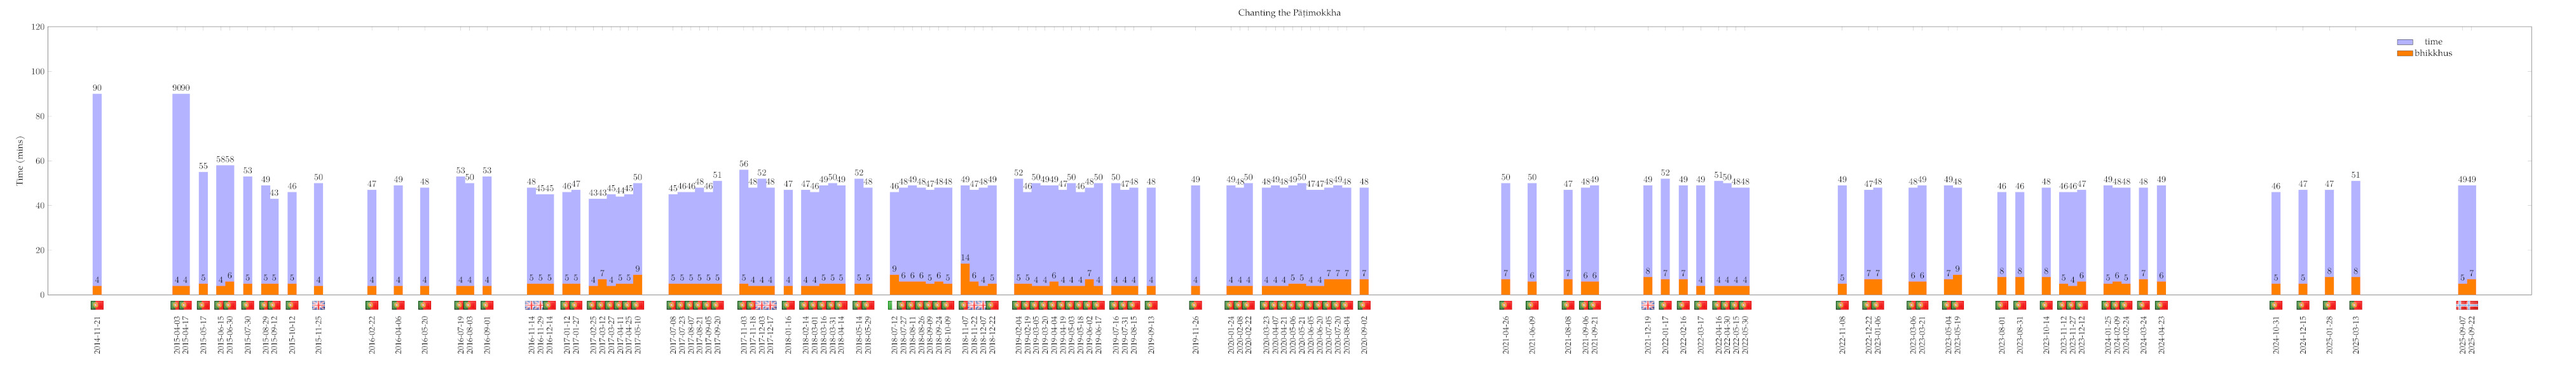
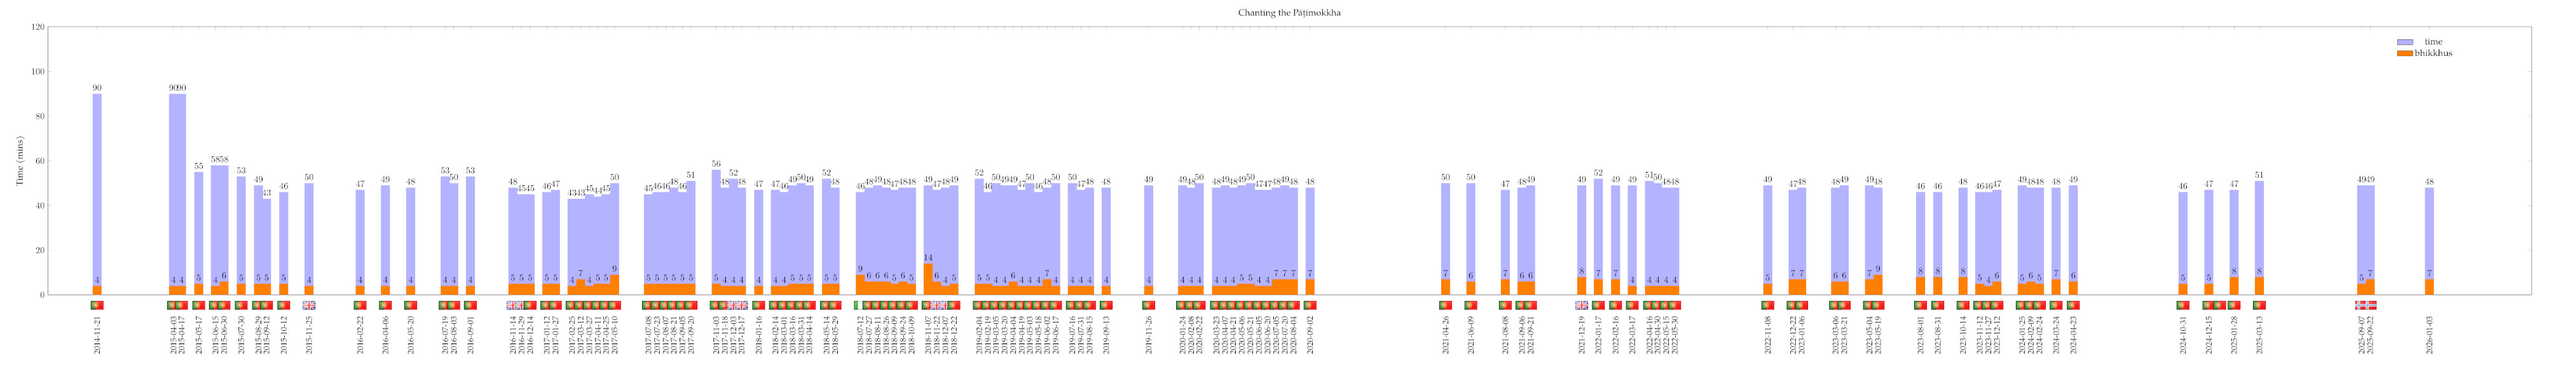
upd

Changed region(s): [[0.0622, 0.39, 0.964, 0.93]]

diff --git a/src/patimokkha-chanting-chart.tex b/src/patimokkha-chanting-chart.tex
@@ -64,7 +64,7 @@
     ylabel=Time (mins),
     xtick=data,
     xmin=2014-11-20,
-    xmax=2025-12-31,
+    xmax=2026-06-30,
     enlarge x limits={rel=0.02,lower},
     xticklabel style={yshift=-20pt,rotate=90,anchor=east,font=\small},
     xticklabel={\year-\month-\day},
@@ -216,6 +216,7 @@
   \node [anchor=south, yshift=-20pt] at (axis cs:2025-03-13,0) {\includegraphics[width=5mm]{pt}};
   \node [anchor=south, yshift=-20pt] at (axis cs:2025-09-07,0) {\includegraphics[width=5mm]{no}};
   \node [anchor=south, yshift=-20pt] at (axis cs:2025-09-22,0) {\includegraphics[width=5mm]{no}};
+  \node [anchor=south, yshift=-20pt] at (axis cs:2025-01-03,0) {\includegraphics[width=5mm]{pt}};
 
 \end{axis}
 \end{tikzpicture}
